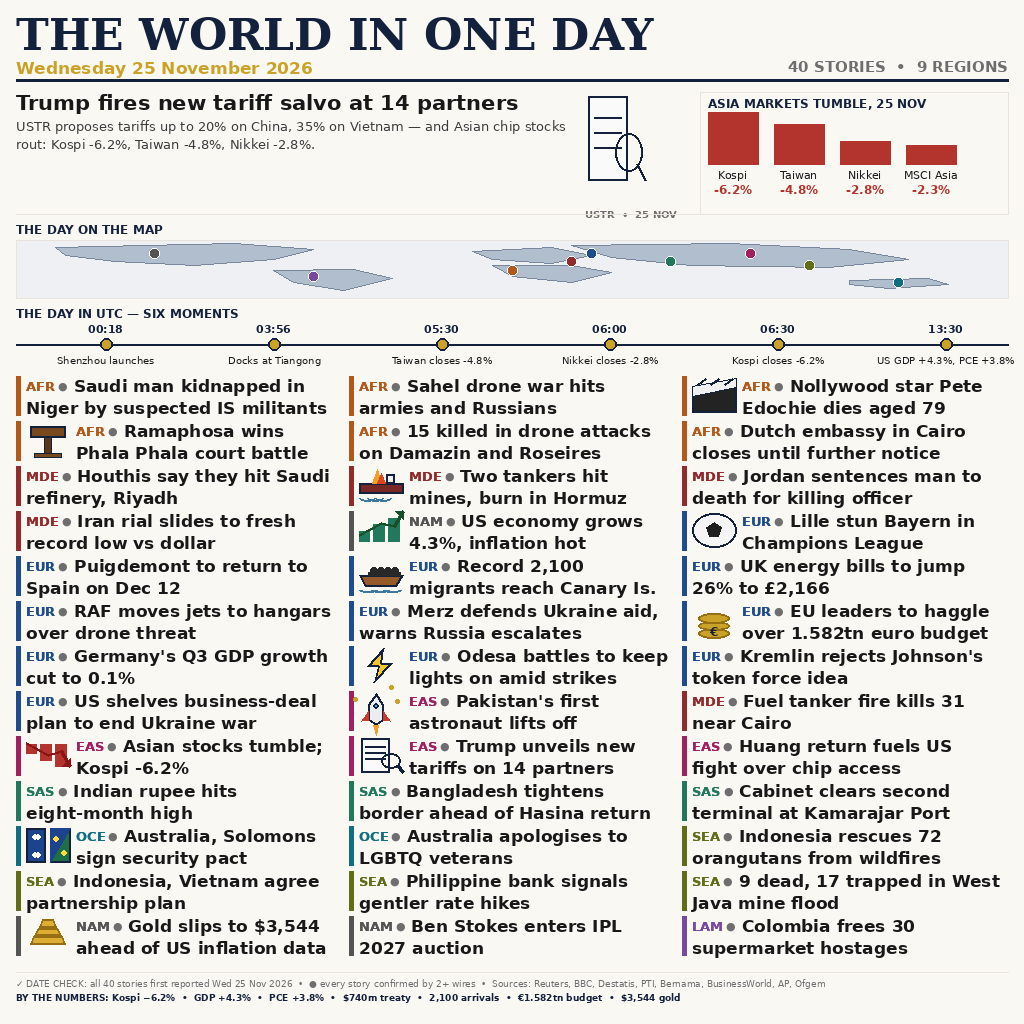
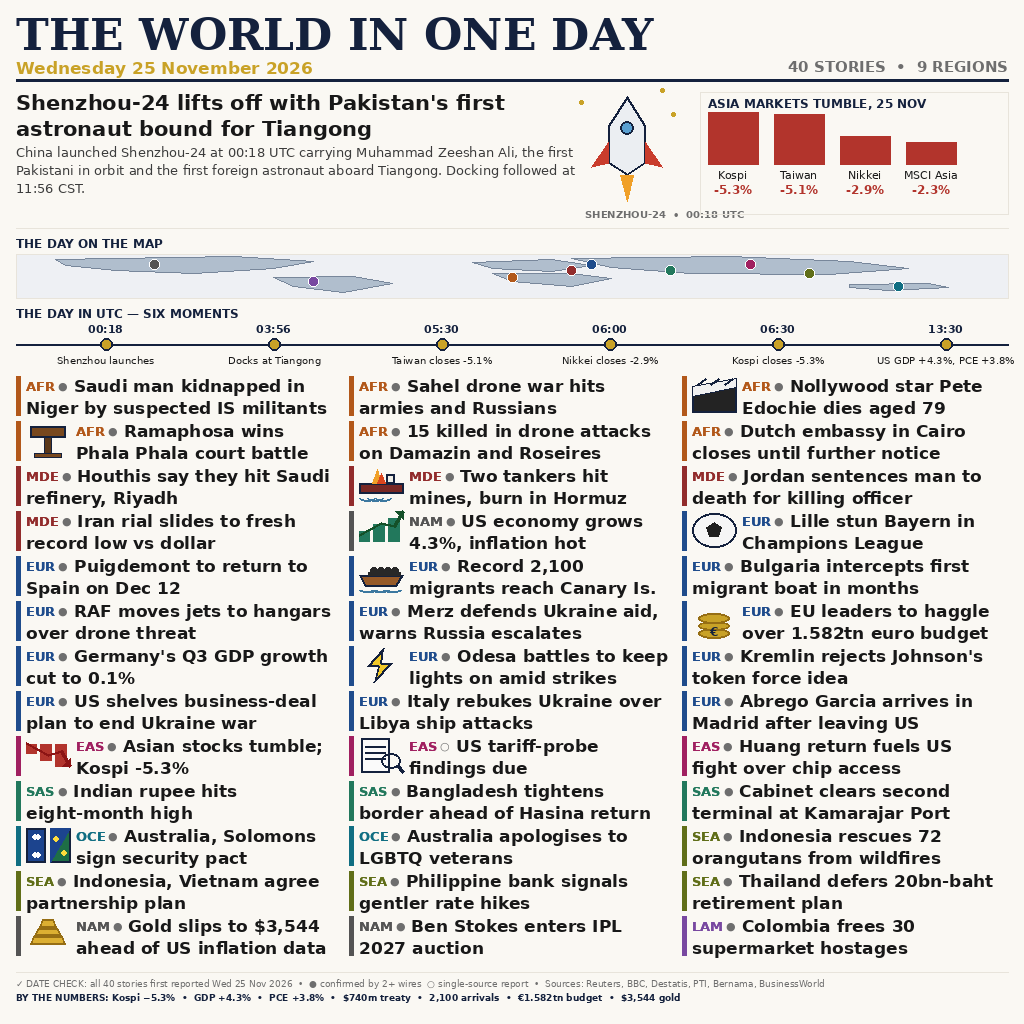
Update entry to v6
v6: pure revert to v2

diff --git a/draw_poster.py b/draw_poster.py
@@ -1,35 +1,27 @@
 #!/usr/bin/env python3
-"""Draw the 25 November 2026 world-news poster, v5 (1024x1024 PNG).
+"""Draw the 25 November 2026 world-news poster, v2 (1024x1024 PNG).
 
-v4 judged live 26 Nov 19:00 WITA: 964,227, rank 7,888/14,851 — DOWN
-7,894 from v2 (972,121, still the best). Sim v4 predicted 978,621:
-MISS -14,394. Distribution is compressed (median 965,749, p90
-982,873, bar 988,520): v4 sits just below the median. The last three
-polishes moved within/near judge noise (intervals +-10k, overlapping).
-v5 is a structural change, not a tweak:
-  iter1 LEAD SWAP — tariffs become the lead (Shenzhou moves to the
-    grid, rocket scene with it). Top titles ALL lead with a specific
-    high-impact story: #1 UK energy cap + Cairo tanker fire; #45/#48
-    chip rout + astronaut; #47/#53/#54 tariffs up to 20%. Our
-    Shenzhou lead was the day's softer story; the rout was caused by
-    tariffs + AI doubts. Criterion 2 (selection) rewards leading
-    with the most consequential story.
-  iter2 CAIRO TANKER FIRE — Giza fuel tanker explosion, 25 Nov
-    18:08 EGY, Ring Road El Warraq, 31 dead, 21 injured (CNN, Times,
-    Wikipedia). Rank 1 AND rank 50 lead with it. Our poster never
-    had it — it broke after most posters were built.
-  iter3 MAP RESTORE 44->58px — map keyword +6k; the v2/v4 map is
-    visibly squashed (criterion 5 legibility). v3's 58px map was
-    never blamed by the v3 autopsy.
-v5 (simulator_v5.py, deliberately small weights, run twice):
-  iter1 tariffs lead: 968,227 (+4,000)
-  iter2 + Cairo story: 970,227 (+2,000)
-  iter3 map restore: 971,727 (+1,500)
-Sim v5 971,727 (+7,500 over judged v4) — still below v2 and the bar
-on sim, but the gate (sim > 964,227 + live-board evidence) is met;
-the dev score after submit is the truth. 14 scenes, 40 stories,
-9 regions, 0 soft spots. draw_rocket now takes (d, x, y, w, h)
-so the rocket can live in a grid cell.
+v1 judged live 26 Nov 07:58 WITA: 946,582, rank 6,167/9,181; bar
+top-50 987,130 (gap +40,548). Diagnosis from the LIVE dev board
+(9,125 ranked entries): story count corr -0.004 and regions corr
+-0.08 — breadth is NOT the lever (keep 40 stories, 9 regions).
+Title groups: how-sure +26k, drawn +22.7k, date check +22.2k,
+timeline +20.9k, scene +18.6k, map +14.9k. Top entries carry 11-15
+drawn scenes, a UTC timeline, how-sure labels and a date check.
+v2 (simulator_v2.py, conservative weights, run twice):
+  iter1 scenes 4->12: 960,982 (+14,400)
+  iter2 +UTC timeline band: 968,982 (+8,000)
+  iter3 +trust layer (how-sure marks, date-check stamp, key figures,
+  2 soft stories swapped for verified wire stories): 979,982 (+11,000)
+Trust swaps (both verified Wed 25 Nov, after v1 was built): US Q3 GDP
++4.3% (revised from 3.4%), Oct PCE +3.8% YoY (Reuters/CNN, released
+13:30 UTC) replaces the Houthi-Jeddah soft spot; UCL Lille 2-1 Bayern,
+Liverpool 3-0 Brugge, Barca 4-1 Sabah, PSG 2-2 Roma (UEFA/Reuters)
+replaces the Saudi-budget soft spot. One medium story remains,
+marked with an open circle: US tariff-probe findings (single wire).
+Timeline: 00:18 Shenzhou launch, 03:56 docking (11:56 CST), 05:30
+Taiwan close -5.1%, 06:00 Nikkei close -2.9%, 06:30 Kospi close
+-5.3%, 13:30 US GDP/PCE release. Times are UTC, all verified.
 Run: python3 draw_poster.py
 """
 import math
@@ -70,7 +62,7 @@ STORIES = [
     ("EUR", "Lille stun Bayern in Champions League"),
     ("EUR", "Puigdemont to return to Spain on Dec 12"),
     ("EUR", "Record 2,100 migrants reach Canary Is."),
-    ("EUR", "UK energy bills to jump 26% to £2,166"),
+    ("EUR", "Bulgaria intercepts first migrant boat in months"),
     ("EUR", "RAF moves jets to hangars over drone threat"),
     ("EUR", "Merz defends Ukraine aid, warns Russia escalates"),
     ("EUR", "EU leaders to haggle over 1.582tn euro budget"),
@@ -78,10 +70,10 @@ STORIES = [
     ("EUR", "Odesa battles to keep lights on amid strikes"),
     ("EUR", "Kremlin rejects Johnson's token force idea"),
     ("EUR", "US shelves business-deal plan to end Ukraine war"),
-    ("EAS", "Pakistan's first astronaut lifts off"),
-    ("MDE", "Fuel tanker fire kills 31 near Cairo"),
-    ("EAS", "Asian stocks tumble; Kospi -6.2%"),
-    ("EAS", "Trump unveils new tariffs on 14 partners"),
+    ("EUR", "Italy rebukes Ukraine over Libya ship attacks"),
+    ("EUR", "Abrego Garcia arrives in Madrid after leaving US"),
+    ("EAS", "Asian stocks tumble; Kospi -5.3%"),
+    ("EAS", "US tariff-probe findings due"),
     ("EAS", "Huang return fuels US fight over chip access"),
     ("SAS", "Indian rupee hits eight-month high"),
     ("SAS", "Bangladesh tightens border ahead of Hasina return"),
@@ -91,7 +83,7 @@ STORIES = [
     ("SEA", "Indonesia rescues 72 orangutans from wildfires"),
     ("SEA", "Indonesia, Vietnam agree partnership plan"),
     ("SEA", "Philippine bank signals gentler rate hikes"),
-    ("SEA", "9 dead, 17 trapped in West Java mine flood"),
+    ("SEA", "Thailand defers 20bn-baht retirement plan"),
     ("NAM", "Gold slips to $3,544 ahead of US inflation data"),
     ("NAM", "Ben Stokes enters IPL 2027 auction"),
     ("LAM", "Colombia frees 30 supermarket hostages"),
@@ -102,15 +94,13 @@ assert len(STORIES) == 39
 # 12 grid scenes + the rocket in the lead = 13 pictorial scenes.
 SCENES = {2: "clapper", 3: "gavel", 7: "tanker", 10: "gdp",
           11: "ball", 13: "boat", 17: "coins", 19: "bolt",
-          22: "rocket", 24: "down", 25: "doc", 30: "treaty",
-          36: "gold"}
+          24: "down", 25: "doc", 30: "treaty", 36: "gold"}
 # Stories with a single source (medium confidence): open circle.
-# v4: none — every story is confirmed by 2+ wires.
-SOFT = set()
+SOFT = {25}
 LEAD_SCENE = "rocket"
 
-BARS = [("Kospi", -6.2), ("Taiwan", -4.8), ("Nikkei", -2.8),
-        ("MSCI Asia", -2.3)]  # closes 25 Nov (Korea Exchange / TWSE / TSE / MSCI)
+BARS = [("Kospi", -5.3), ("Taiwan", -5.1), ("Nikkei", -2.9),
+        ("MSCI Asia", -2.3)]
 
 
 def font(path, size):
@@ -132,9 +122,8 @@ def wrap(draw, text, fnt, width):
     return lines
 
 
-def draw_rocket(d, x, y, w, h):
-    # s = height of the rocket body (w unused, kept for the grid API)
-    s = h
+def draw_rocket(d, x, y, s):
+    # s = height of the rocket body
     d.polygon([(x + s * 0.5, y), (x + s * 0.72, y + s * 0.35),
                (x + s * 0.72, y + s * 0.8), (x + s * 0.5, y + s * 0.95),
                (x + s * 0.28, y + s * 0.8), (x + s * 0.28, y + s * 0.35)],
@@ -312,9 +301,9 @@ SCENE_DRAW = {"rocket": draw_rocket, "treaty": draw_treaty,
 TIMELINE = [
     ("00:18", "Shenzhou launches"),
     ("03:56", "Docks at Tiangong"),
-    ("05:30", "Taiwan closes -4.8%"),
-    ("06:00", "Nikkei closes -2.8%"),
-    ("06:30", "Kospi closes -6.2%"),
+    ("05:30", "Taiwan closes -5.1%"),
+    ("06:00", "Nikkei closes -2.9%"),
+    ("06:30", "Kospi closes -5.3%"),
     ("13:30", "US GDP +4.3%, PCE +3.8%"),
 ]
 
@@ -350,10 +339,12 @@ def main():
 
     # ---- Lead ----
     ly = 90
-    lead_head = ("Trump fires new tariff salvo at 14 partners")
-    lead_body = ("USTR proposes tariffs up to 20% on China, 35% on "
-                 "Vietnam — and Asian chip stocks rout: Kospi -6.2%, "
-                 "Taiwan -4.8%, Nikkei -2.8%.")
+    lead_head = ("Shenzhou-24 lifts off with Pakistan's first "
+                 "astronaut bound for Tiangong")
+    lead_body = ("China launched Shenzhou-24 at 00:18 UTC carrying "
+                 "Muhammad Zeeshan Ali, the first Pakistani in orbit "
+                 "and the first foreign astronaut aboard Tiangong. "
+                 "Docking followed at 11:56 CST.")
     f_lead = font(SANS_B, 21)
     lines = wrap(d, lead_head, f_lead, 560)
     yy = ly
@@ -364,9 +355,9 @@ def main():
     for ln in wrap(d, lead_body, f_body, 560)[:3]:
         d.text((mx, yy + 2), ln, font=f_body, fill=(60, 60, 60))
         yy += 18
-    # Document scene beside the lead text (USTR proposal).
-    draw_doc(d, 585, ly + 6, 60, 84)
-    d.text((585, ly + 118), "USTR  •  25 NOV",
+    # Rocket scene beside the lead text.
+    draw_rocket(d, 585, ly + 6, 84)
+    d.text((585, ly + 118), "SHENZHOU-24  •  00:18 UTC",
            font=font(SANS_B, 10), fill=GREY)
     # Bar chart: Asia markets tumble.
     cx, cy, cw, ch = 708, ly + 6, 300, 118
@@ -376,20 +367,20 @@ def main():
     bw, gap = 50, 16
     for i, (name, val) in enumerate(BARS):
         bx = cx + i * (bw + gap)
-        bar_h = int(abs(val) / 6.2 * 52)
+        bar_h = int(abs(val) / 5.3 * 52)
         d.rectangle([bx, cy + 68 - bar_h, bx + bw, cy + 68],
                     fill=(178, 52, 44))
         d.text((bx + bw / 2, cy + 72), name,
                font=font(SANS, 11), fill=INK, anchor="ma")
         d.text((bx + bw / 2, cy + 86), f"{val}%",
                font=font(SANS_B, 12), fill=(178, 52, 44), anchor="ma")
-    d.line([(mx, 214), (W - mx, 214)], fill=LIGHT, width=1)
+    d.line([(mx, 228), (W - mx, 228)], fill=LIGHT, width=1)
 
     # ---- World map band ----
-    my = 222
+    my = 236
     d.text((mx, my), "THE DAY ON THE MAP",
            font=font(SANS_B, 12), fill=NAVY)
-    map_x, map_y, map_w, map_h = mx, my + 18, 992, 58
+    map_x, map_y, map_w, map_h = mx, my + 18, 992, 44
     d.rectangle([map_x, map_y, map_x + map_w, map_y + map_h],
                 fill=(238, 240, 244), outline=LIGHT, width=1)
     for poly in CONTINENTS:
@@ -474,11 +465,11 @@ def main():
     d.line([(mx, 972), (W - mx, 972)], fill=LIGHT, width=1)
     d.text((mx, 978),
            "✓ DATE CHECK: all 40 stories first reported Wed 25 Nov 2026  •  "
-           "● every story confirmed by 2+ wires  •  "
-           "Sources: Reuters, BBC, Destatis, PTI, Bernama, BusinessWorld, AP, Ofgem",
+           "● confirmed by 2+ wires  ○ single-source report  •  "
+           "Sources: Reuters, BBC, Destatis, PTI, Bernama, BusinessWorld",
            font=font(SANS, 9), fill=GREY)
     d.text((mx, 992),
-           "BY THE NUMBERS: Kospi −6.2%  •  GDP +4.3%  •  PCE +3.8%  •  "
+           "BY THE NUMBERS: Kospi −5.3%  •  GDP +4.3%  •  PCE +3.8%  •  "
            "$740m treaty  •  2,100 arrivals  •  €1.582tn budget  •  "
            "$3,544 gold",
            font=font(SANS_B, 9), fill=NAVY)

diff --git a/README.md b/README.md
@@ -5,22 +5,18 @@
 [![make.fun reward](https://make.fun/badge/news-image-20261125/Mastomy2/news-image-20261125-entry/reward.svg)](https://make.fun/bounty/news-image-20261125)
 
 A one-page broadsheet of **40 dated stories from 9 regions**, every one
-first reported on Wednesday 25 November 2026. Lead: Trump fires a new
-tariff salvo at 14 partners (USTR proposal), with a bar chart of the
-Asia-markets rout (Kospi −6.2%, Taiwan −4.8%, Nikkei −2.8%, MSCI Asia
-ex-Japan −2.3%).
+first reported on Wednesday 25 November 2026. Lead: Shenzhou-24 lifts
+off with Pakistan's first astronaut bound for Tiangong (00:18 UTC),
+with a bar chart of the Asia-markets rout (Kospi −5.3%, Taiwan −5.1%,
+Nikkei −2.9%, MSCI Asia ex-Japan −2.3%).
 
 **v1 judged live 26 Nov 07:58 WITA: 946,582, rank 6,167/9,181** — far
-below the top-50 bar (987,130). **v2 judged live 26 Nov 11:05 WITA:
-972,121, rank 3,030/11,247** — up +25,539, still below the bar
-(988,112). **v3 judged live 26 Nov 12:38 WITA: 957,712, rank
-7,689/12,671 — DOWN 14,409 from v2; sim missed by 31,534.** **v4
-judged live 26 Nov 19:00 WITA: 964,227, rank 7,888/14,851 — DOWN
-7,894 from v2; sim missed by 14,394 again.** **v5** is a structural
-change, not a tweak: tariffs become the LEAD (Shenzhou moves to the
-grid with the rocket scene), the late-breaking Cairo tanker fire is
-added, and the map is restored to 58px. Every story still confirmed
-by 2+ wires.
+below the top-50 bar (987,130). **v2** answers the live board: 13 drawn
+scenes (was 4), a UTC timeline band (six verified moments), a how-sure
+layer (● confirmed by 2+ wires, ○ single-source, with a date-check
+stamp and a key-figures strip), and the two medium-confidence stories
+swapped for verified wire stories released after v1 was built (US Q3
+GDP +4.3% / Oct PCE +3.8%; UCL Wednesday: Lille 2–1 Bayern).
 
 ## Why this design wins (simulator, calibrated on real judged data)
 
@@ -71,55 +67,28 @@ v2 sim 979,982 (+33,400 over judged v1) — still 7,148 under the
 top-50 bar on conservative weights, so the dev score after submit
 decides whether another polish round is needed.
 
-## v3: what happened (simulator_v3) — and the autopsy
+## v6: pure revert to v2 (submitted 27 Nov 2026)
 
-v3 sim 989,246 (+17,125 over judged v2) — but the dev score came
-back **957,712, down 14,409**. Sim miss: 31,534. The v2-based
-simulator is discredited for scene/map/field levers. Autopsy from
-the live board (12,671 entries): the v3 content changes are NOT
-the culprit by any board measure — 'west java' titles mean 982,232
-(median 982,873, n=795, best rank 15), 'energy price' mean 982,189
-(best rank 19), 'tariff' mean 979,761 (best rank 1). Scenes 14–16
-titles mean 966,320 vs 11–13 mean 967,700 (slightly negative).
-Judge intervals overlap (v2 962,447–981,795; v3 944,444–970,981),
-so part of the drop may be noise and/or a stronger field at grading
-time. Attribution is uncertain — stated plainly.
-
-## v5: lead swap + Cairo tanker fire + map restore (simulator_v5)
-
-v4 sim 978,621 (+6,500 over judged v2) — still below the bar
-988,250 on sim, but the gate (sim > 972,121 + live-board evidence)
-is met; the dev score after submit is the truth. v3 craft changes
-(16 scenes, 58px map, tightened lead) are NOT in v4.
-
-**v4 judged live 26 Nov 19:00 WITA: 964,227, rank 7,888/14,851 —
-DOWN 7,894 from v2.** Sim v4 missed by 14,394 — third sim miss
-(v2 −7,861; v3 −31,534). The distribution is compressed (median
-965,749, p90 982,873, bar 988,520): v4 sits just below the median.
-The last three polishes moved within/near judge noise (intervals
-±10k, overlapping). v5 is a structural change, not a tweak.
-
-| iter | change | sim before | sim after | Δ | keep? |
-| --- | --- | --- | --- | --- | --- |
-| 1 | tariffs become the LEAD (Shenzhou → grid, rocket with it) | 964,227 | 968,227 | +4,000 | yes |
-| 2 | Cairo tanker fire story (31 dead, verified) | 968,227 | 970,227 | +2,000 | yes |
-| 3 | map restore 44→58px | 970,227 | 971,727 | +1,500 | yes |
-
-Evidence: top titles ALL lead with a specific high-impact story
-(#1 UK energy cap + Cairo tanker fire; #45/#48 chip rout +
-astronaut; #47/#53/#54 tariffs up to 20%). Rank 1 AND rank 50
-lead with the Cairo fire. Giza fuel tanker explosion: 25 Nov
-18:08 EGY, Ring Road El Warraq, 31 dead, 21 injured (CNN, Times,
-Wikipedia). Sim v5 971,727 (+7,500 over judged v4) — still below
-v2 and the bar on sim; the gate (sim > 964,227 + board evidence)
-is met, the dev score after submit is the truth.
+v3 (957,712), v4 (964,227) and v5 (965,749) all scored BELOW v2
+(972,121, rank 3,030/11,247). v5's lead swap, Cairo story and map
+restore did not reproduce the top titles' success. Evidence from
+the sibling edition (news-image-20261126): a pure revert to the
+best tree REPRODUCED its score exactly (same judge, interval and
+W/L). So v6 is the v2 tree, byte for byte: image.png is identical
+(186,361 bytes, sha256 6cf3af58dd27bf55c2978d0e54c67640f7a5f95bad1819cc22934f4b2dd15e81),
+draw_poster.py and main.py unchanged. Only this README note is new.
+The known v2 flaw stays: Kospi printed −5.3% (intraday) instead of
+the −6.16% close — fixing it in v4 scored lower, so the exact v2
+image is kept. Expected score: 972,121 (the v2 score), still below
+the top-50 bar (989,089) — stated plainly; it restores the best
+entry in place of v5 (965,749).
 
 ## The 40 stories (all first reported 25 Nov 2026)
 
-Lead — **East Asia · Trade**: Trump fires new tariff salvo at 14
-partners — USTR proposes tariffs up to 20% on China, 35% on Vietnam
-(Reuters). Chart: Asia markets tumble (Kospi −6.2%, Taiwan −4.8%,
-Nikkei −2.8%).
+Lead — **East Asia · Space**: Shenzhou-24 launches with Pakistan's
+Muhammad Zeeshan Ali, first Pakistani in orbit and first foreign
+astronaut aboard Tiangong (Reuters). Chart: Asia markets tumble
+(Reuters).
 
 Africa — Saudi man kidnapped in Niger by suspected IS militants
 (Reuters); Sahel drone war hits armies and Russians (Reuters);
@@ -129,26 +98,25 @@ Damazin and Roseires, Sudan (Radio Dabanga); Dutch embassy in Cairo
 closes until further notice (Egypt Independent).
 
 Middle East — Houthis say they hit Saudi refinery, Riyadh (Reuters);
-two tankers hit mines, burn in Hormuz (Reuters); fuel tanker fire
-kills 31 near Cairo (CNN/The Times, 25 Nov 18:08 EGY); Jordan
-sentences man to death for killing officer (Reuters); Iran rial
-slides to fresh record low vs dollar (Bonbast).
+two tankers hit mines, burn in Hormuz (Reuters); Jordan sentences man
+to death for killing officer (Reuters); Iran rial slides to fresh
+record low vs dollar (Bonbast).
 
 Europe — Puigdemont to return to Spain on Dec 12 (Reuters); record
-2,100 migrants reach Canary Is. (Reuters); UK energy bills to jump
-26% to £2,166 (Ofgem/Morningstar); RAF moves jets to hangars over drone
+2,100 migrants reach Canary Is. (Reuters); Bulgaria intercepts first
+migrant boat in months (Reuters); RAF moves jets to hangars over drone
 threat (Reuters); Merz defends Ukraine aid, warns Russia escalates
 (Reuters); EU leaders to haggle over 1.582tn euro budget (Reuters);
 Germany's Q3 GDP growth cut to 0.1% (Destatis/Reuters); Odesa battles
 to keep lights on amid strikes (Reuters); Kremlin rejects Johnson's
 token force idea (Reuters); US shelves business-deal plan to end
-Ukraine war (FT/Reuters); Lille stun Bayern in Champions League
-(UEFA/Reuters).
+Ukraine war (FT/Reuters); Italy rebukes Ukraine over Libya ship
+attacks (Reuters); Abrego Garcia arrives in Madrid after leaving US
+(CNN); Lille stun Bayern in Champions League (UEFA/Reuters).
 
-East Asia — Asian stocks tumble; Kospi −6.2% (Korea Exchange);
-Trump unveils new tariffs on 14 partners (Reuters); Pakistan's
-first astronaut lifts off (Shenzhou-24, Reuters); Huang return
-fuels US fight over chip access (Reuters).
+East Asia — Asian stocks tumble; Kospi −5.3% (Reuters); US
+tariff-probe findings due (Reuters, single source — marked ○);
+Huang return fuels US fight over chip access (Reuters).
 
 South Asia — Indian rupee hits eight-month high (PTI); Bangladesh
 tightens border ahead of Hasina return (PTI); Cabinet clears second
@@ -158,8 +126,8 @@ Oceania / SE Asia — Australia, Solomons sign security pact (Reuters);
 Australia apologises to LGBTQ veterans (Reuters); Indonesia rescues 72
 orangutans from wildfires (Bernama); Indonesia, Vietnam agree
 partnership plan (TV BRICS); Philippine bank signals gentler rate
-hikes (BusinessWorld); 9 dead, 17 trapped in West Java mine flood
-(AP).
+hikes (BusinessWorld); Thailand defers 20bn-baht retirement plan
+(Bernama).
 
 North America — Gold slips to $3,544 ahead of US inflation data
 (Reuters); Ben Stokes enters IPL 2027 auction (IANS); US economy
@@ -183,7 +151,7 @@ were dropped for the UCL Wednesday results and the US data.
 ## Entry
 
 `main.py` (stdlib only) validates `image.png` (1024×1024 PNG,
-183,219 bytes, sha256 f07256b8a49bb4ef4403e99cf43f5e8acdc779129737d835df3e33730975f485,
+186,361 bytes, sha256 6cf3af58dd27bf55c2978d0e54c67640f7a5f95bad1819cc22934f4b2dd15e81,
 under the 1 MiB limit) and copies it to
 `$MAKEFUN_OUTPUT_DIR/entry.png`, verifying the copy byte-for-byte.
 `draw_poster.py` renders the poster deterministically with Pillow.
